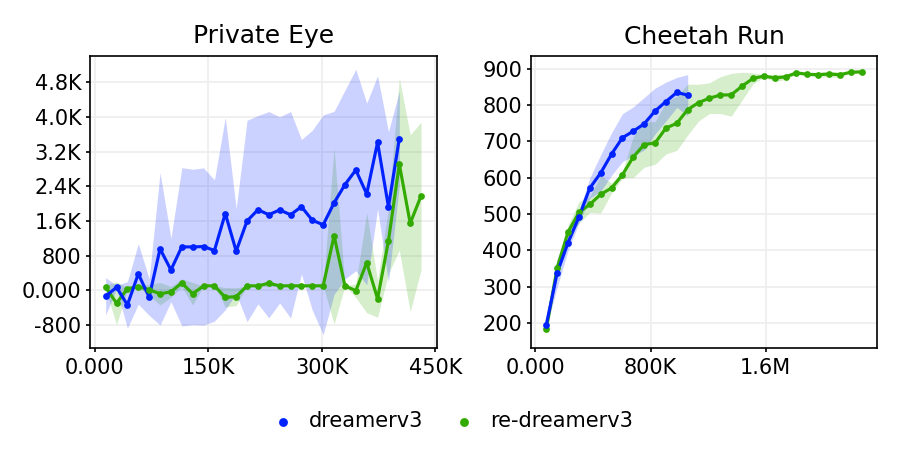
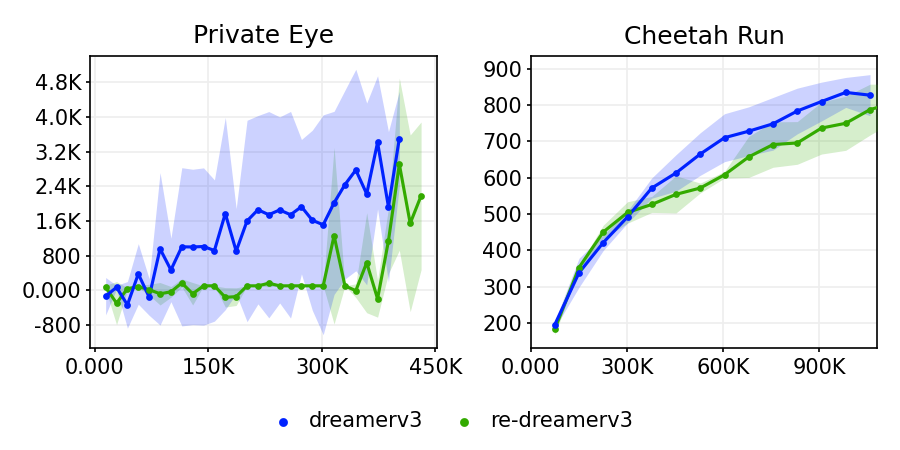
crop cheetah run at 1m steps

diff --git a/scripts/plot.py b/scripts/plot.py
@@ -215,7 +215,13 @@ def plot_runs(df, stats, args):
     style(ax, xticks=args.xticks, yticks=args.yticks)
     title = task.replace('_', ' ').replace(':', ' ').split(' ', 1)[1].title()
     ax.set_title(title)
+
+    plot_xlim_override = {
+            'dmc_cheetah_run': 1050000,
+        }
+    
     args.xlim and ax.set_xlim(0, 1.03 * args.xlim)
+    task in plot_xlim_override and ax.set_xlim(0, 1.03 * plot_xlim_override[task])
     args.ylim and ax.set_ylim(0, 1.03 * args.ylim)
     for i, method in enumerate(methods):
       try:
